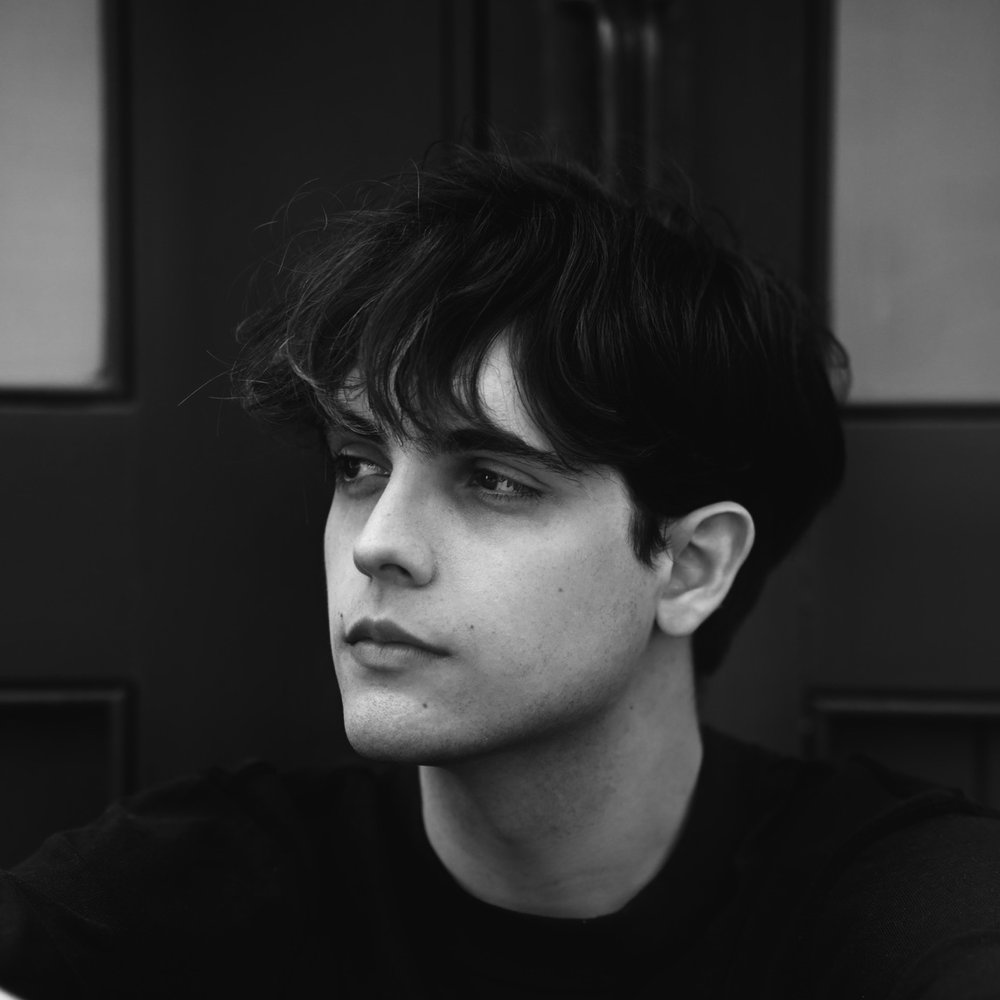
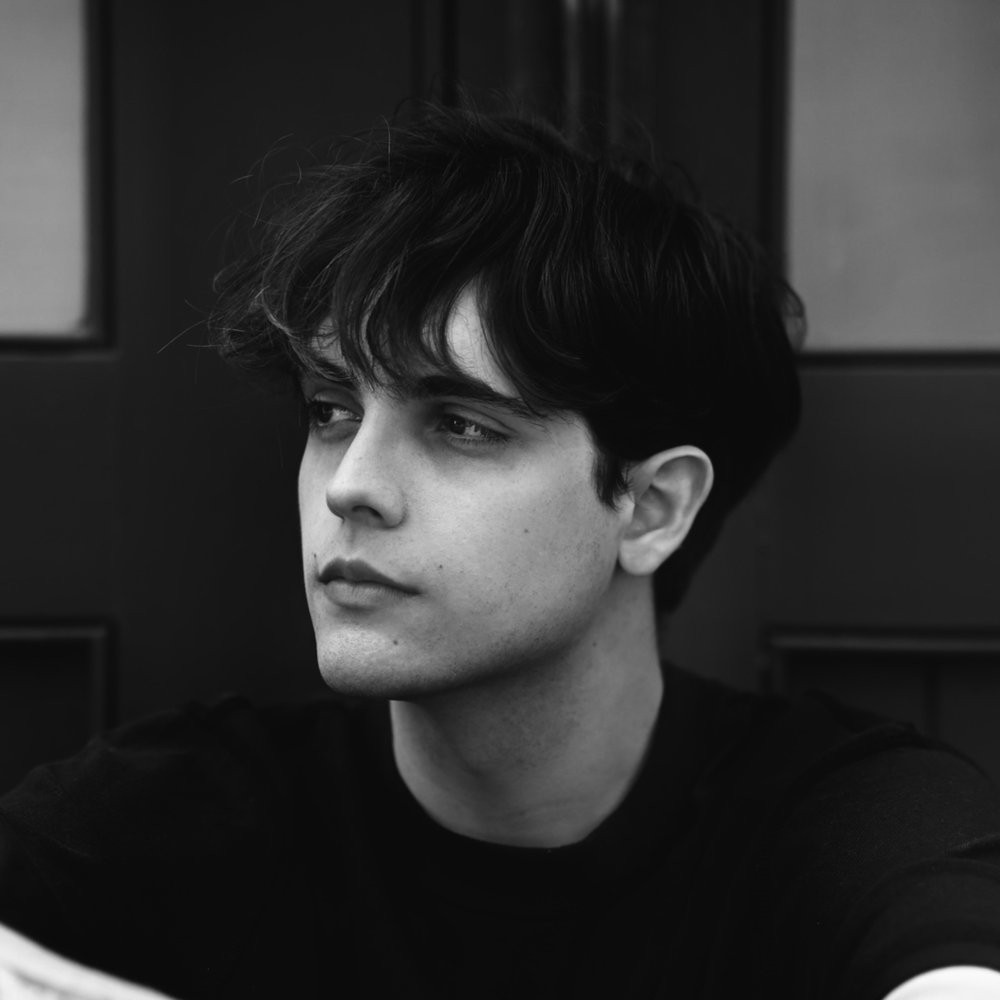
Luis's portrait: Louis's own square (council picture #41, #5007)
Claude-Session: https://claude.ai/code/session_01FXTK2WeDEVEHvdFuz1vU9H

diff --git a/CLAUDE.md b/CLAUDE.md
@@ -319,7 +319,7 @@ legal name (`legal_name`, Luis R. P. Andrada) still stays in legal statements on
 - NO HERO (Louis, 2026-10-14): luis.andrada.one opens right on the resume, the menu only in the header (`plain = true`
   in `params.faces.luis`; faces.html gives a plain face no hero behaviour, and menus link it without a #hash). A small
   SQUARE portrait (`avatar`, `static/images/luis/portrait-small.jpg`, 360px) sits on top of his name; `image` (the
-  1000px `portrait.jpg`; both from the B&W photo Louis sent 2026-10-28 (council picture #37, 1367×2048), cut square around the face, 1140px from (35, 40), no arms: Louis #5001, #5005, no metadata) is for link previews.
+  1000px `portrait.jpg`; both from the square Louis cut himself, 2026-10-28 (council picture #41, 2048×2048, #5007), only resized, no metadata) is for link previews.
   The pinned cluster (title, section links that follow the scroll, LinkedIn, Contact; `.book-page-header` +
   `body.page-books` like the other faces; hidden on phones, where the resume's head carries the links). The resume
   is CENTRED on the screen and the cluster sits a short gap to its left (`--cr-rx/--cr-cl/--cr-gap/--cr-col`; Louis:
